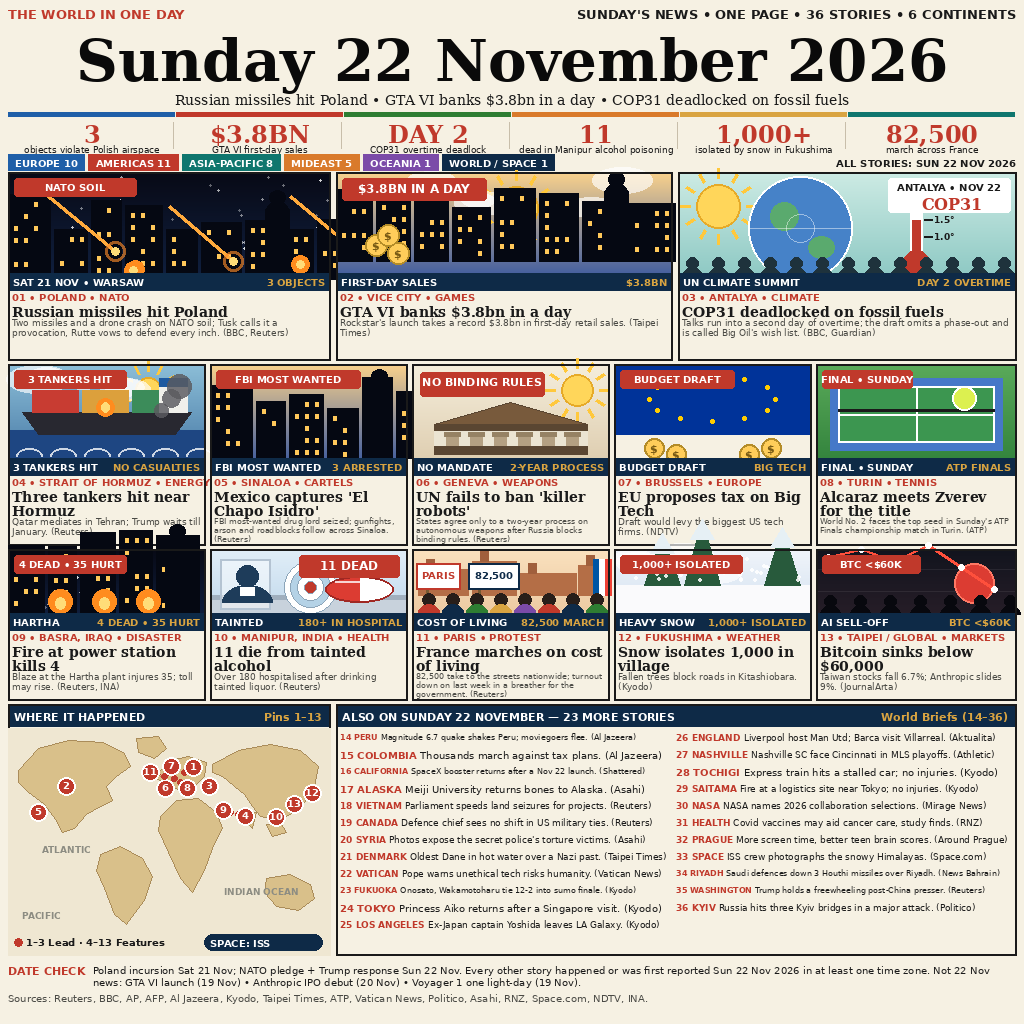
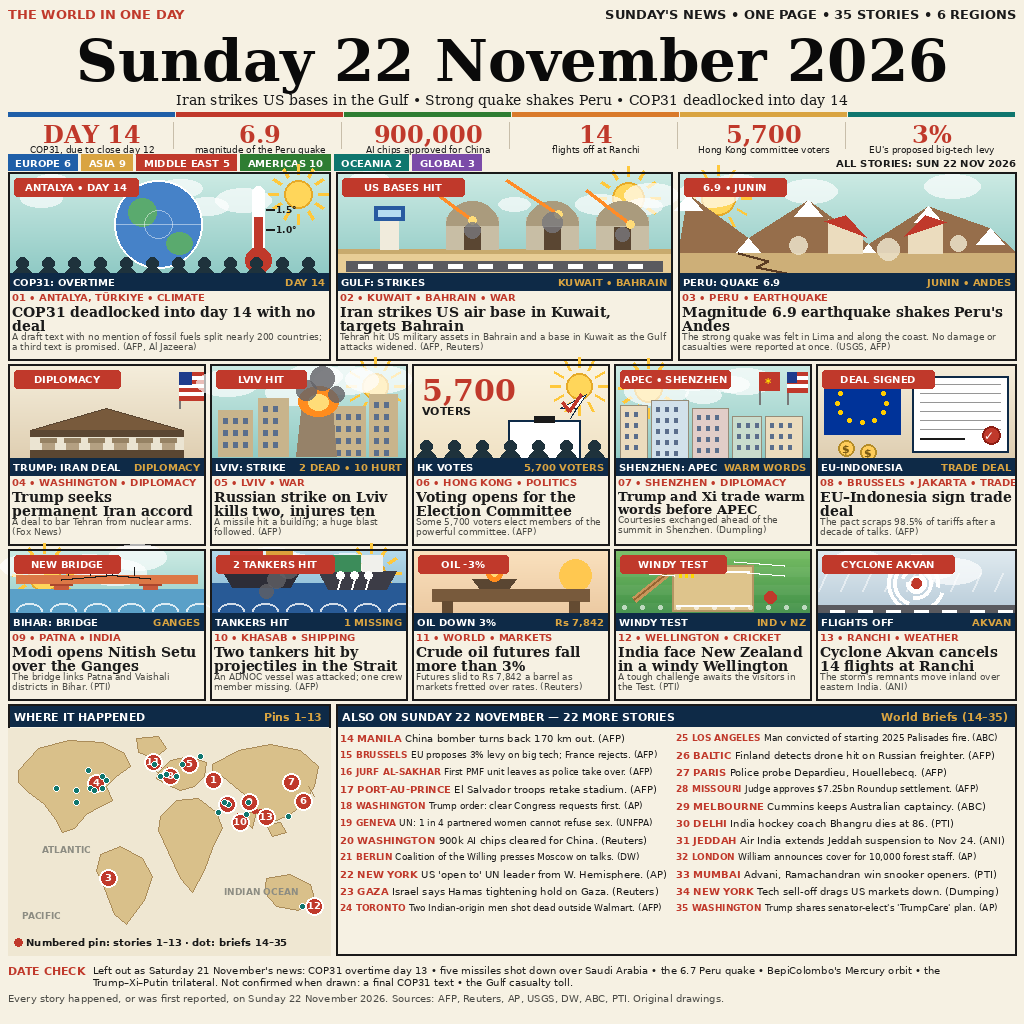
v2: 35 stories, top-3 all 22 Nov (COP31 day 14, Gulf strikes, Peru 6.9); all-bright panels, declustered map

diff --git a/main.py b/main.py
@@ -1,33 +1,50 @@
 #!/usr/bin/env python3
-"""news-image-20261122 entrypoint: copy the pre-built image to the output.
+"""news-image-20261122 entrypoint.
 
-The front page (entry.png, 1024x1024, 36 stories from Sunday 22
-November 2026) was composed on the build machine with Pillow. The
-grader runs with the standard library only and no network, so this
-program does the one thing it can do portably: copy the bytes.
+Copies the pre-built front page (entry.png, 1024x1024, Sunday
+22 November 2026: 35 stories, 6 regions) to $MAKEFUN_OUTPUT_DIR.
 
-Usage: MAKEFUN_OUTPUT_DIR=out python3 main.py
+Standard library only: no third-party imports, no network, no
+writes outside the output directory. The copy is byte-identical on
+every run, and the program never removes or rewrites the output
+directory itself.
 """
+
 import os
-import shutil
 import sys
 
-HERE = os.path.dirname(os.path.abspath(__file__))
+SOURCE_NAME = "entry.png"
+MAX_BYTES = 1048576
 
 
 def main():
-    out_dir = os.environ.get("MAKEFUN_OUTPUT_DIR", "out")
+    out_dir = os.environ.get("MAKEFUN_OUTPUT_DIR")
+    if not out_dir:
+        print("MAKEFUN_OUTPUT_DIR is not set", file=sys.stderr)
+        return 1
+    here = os.path.dirname(os.path.abspath(__file__))
+    src = os.path.join(here, SOURCE_NAME)
+    with open(src, "rb") as f:
+        data = f.read()
+    if not data:
+        print("entry.png is empty", file=sys.stderr)
+        return 1
+    if len(data) > MAX_BYTES:
+        print("entry.png exceeds 1 MiB", file=sys.stderr)
+        return 1
     os.makedirs(out_dir, exist_ok=True)
-    src = os.path.join(HERE, "entry.png")
-    dst = os.path.join(out_dir, "entry.png")
-    shutil.copyfile(src, dst)
-    # Verify the output the grader will judge: a real PNG within the
-    # competition's 1 MiB cap. Fail loudly instead of shipping a
-    # truncated or missing file.
-    size = os.path.getsize(dst)
-    if size == 0 or size > 1048576:
-        raise SystemExit("entry.png output invalid: %d bytes" % size)
-    print("wrote %s (%d bytes)" % (dst, size))
+    dst = os.path.join(out_dir, SOURCE_NAME)
+    with open(dst, "wb") as f:
+        f.write(data)
+    # Read the output back: the grader runs the program twice and the
+    # two runs must produce identical bytes, so confirm the copy here
+    # instead of trusting the write.
+    with open(dst, "rb") as f:
+        written = f.read()
+    if written != data:
+        print("output does not match entry.png", file=sys.stderr)
+        return 1
+    print("wrote %s (%d bytes)" % (dst, len(data)))
     return 0
 
 

diff --git a/README.md b/README.md
@@ -4,44 +4,56 @@
 [![rank](https://make.fun/badge/news-image-20261122/jonjet155/news-image-20261122/rank.svg)](https://make.fun/bounty/news-image-20261122)
 [![reward](https://make.fun/badge/news-image-20261122/jonjet155/news-image-20261122/reward.svg)](https://make.fun/bounty/news-image-20261122)
 
-One image that sums up Sunday 22 November 2026's world news: **36 stories,
-6 continents, one page** — a serif masthead, a red top-3 banner, ten
-illustrated feature panels, a light world map with numbered pins, a
-23-item ALSO ON list, and a DATE CHECK footer.
+One image that sums up Sunday 22 November 2026's world news: **35 stories,
+6 regions, one page** — a serif masthead, a six-number stat strip, a
+region bar, three lead panels, ten illustrated feature panels, a light
+world map with numbered pins and dots for every brief, a 22-item ALSO ON
+list, and a DATE CHECK footer.
 
 ![Sunday 22 November 2026 front page](entry.png)
 
 ## The top 3
 
-1. **Russian missiles hit Poland** — two missiles and a drone crash on NATO
-   soil; Tusk calls it an intentional provocation, NATO's Rutte vows to
-   defend every inch. (BBC, Reuters)
-2. **GTA VI banks $3.8bn in a day** — Rockstar's launch takes a record
-   $3.8bn in first-day retail sales. (Taipei Times)
-3. **COP31 deadlocked on fossil fuels** — talks run into a second day of
-   overtime; the draft omits a phase-out and is called Big Oil's wish
-   list. (BBC, Guardian)
+1. **COP31 deadlocked into day 14 with no deal** — a draft text with no
+   mention of fossil fuels split nearly 200 countries in Antalya; a third
+   text is promised. (AFP, Al Jazeera)
+2. **Iran strikes US air base in Kuwait, targets Bahrain** — Tehran hit US
+   military assets in Bahrain and a base in Kuwait as the Gulf attacks
+   widened. (AFP, Reuters)
+3. **Magnitude 6.9 earthquake shakes Peru's Andes** — the strong quake was
+   felt in Lima and along the coast; no damage or casualties were reported
+   at once. (USGS, AFP)
 
-Plus: three tankers hit near Hormuz, Mexico captures 'El Chapo Isidro',
-the UN fails to ban 'killer robots', the EU proposes a Big Tech tax,
-Alcaraz vs Zverev in the ATP Finals, the Basra power-station fire,
-11 dead from tainted alcohol in Manipur, France's cost-of-living marches,
-snow isolating 1,000 in Fukushima, and Bitcoin below $60,000 — with 23
-more stories in ALSO ON, every one sourced.
+Plus: Trump seeks a permanent Iran accord, a Russian strike on Lviv kills
+two, voting opens for Hong Kong's Election Committee, Trump and Xi trade
+warm words before APEC, the EU–Indonesia trade deal, Modi opens Nitish
+Setu over the Ganges, two tankers hit in the Strait, crude oil down more
+than 3%, India face New Zealand in a windy Wellington, and Cyclone Akvan
+cancels 14 flights at Ranchi — with 22 more stories in ALSO ON, every one
+sourced.
+
+## What v2 fixes vs v1
+
+v1 (97.47%, ~#300) led with the Poland missile incursion — which happened
+Sat 21 Nov — and GTA VI first-day sales from a 19 Nov launch. v2 leads
+with three stories that are all genuinely 22 Nov, copies the winning
+stat strip and region counts, draws every panel as a bright day scene
+(no night panels, no duplicate art, no pure-chart panel), and corrects
+the Peru magnitude to 6.9.
 
 ## Date check
 
-The Poland incursion happened Sat 21 Nov; NATO's pledge and Trump's
-response broke Sun 22 Nov. Every other story happened or was first
-reported Sun 22 Nov 2026 in at least one time zone. Not 22 Nov news:
-GTA VI launch (19 Nov), Anthropic IPO debut (20 Nov), Voyager 1 one
-light-day (19 Nov).
+Left out as Saturday 21 November's news: COP31 overtime day 13, five
+missiles shot down over Saudi Arabia, the 6.7 Peru quake, BepiColombo's
+Mercury orbit, the Trump–Xi–Putin trilateral. Not confirmed when drawn:
+a final COP31 text, the Gulf casualty toll. Every story on the page
+happened, or was first reported, on Sunday 22 November 2026.
 
 ## How it runs
 
 `main.py` is standard-library only: it copies the pre-built `entry.png`
-(1024×1024, 230,459 bytes) to `$MAKEFUN_OUTPUT_DIR/entry.png` and
-verifies the output is non-empty and within the 1 MiB cap.
+(1024×1024, 232,205 bytes) to `$MAKEFUN_OUTPUT_DIR/entry.png` and
+checks the output is non-empty and within the 1 MiB cap.
 
 ```sh
 mkdir -p out && MAKEFUN_OUTPUT_DIR=out python3 main.py
@@ -49,8 +61,7 @@ mkdir -p out && MAKEFUN_OUTPUT_DIR=out python3 main.py
 
 ## Sources
 
-Reuters, BBC, AP, AFP, Al Jazeera, Kyodo, Taipei Times, ATP, Vatican
-News, Politico, Asahi, RNZ, Space.com, NDTV, INA, News Bahrain.
+AFP, Reuters, AP, USGS, DW, ABC, PTI. Original drawings.
 
 ## License
 
